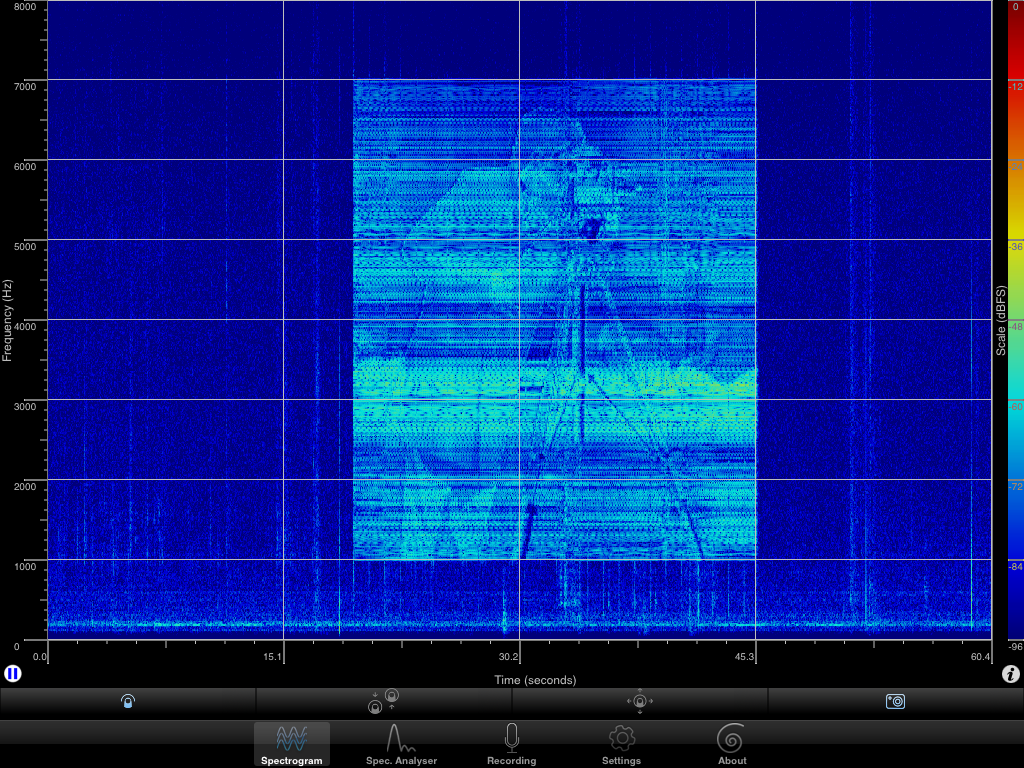
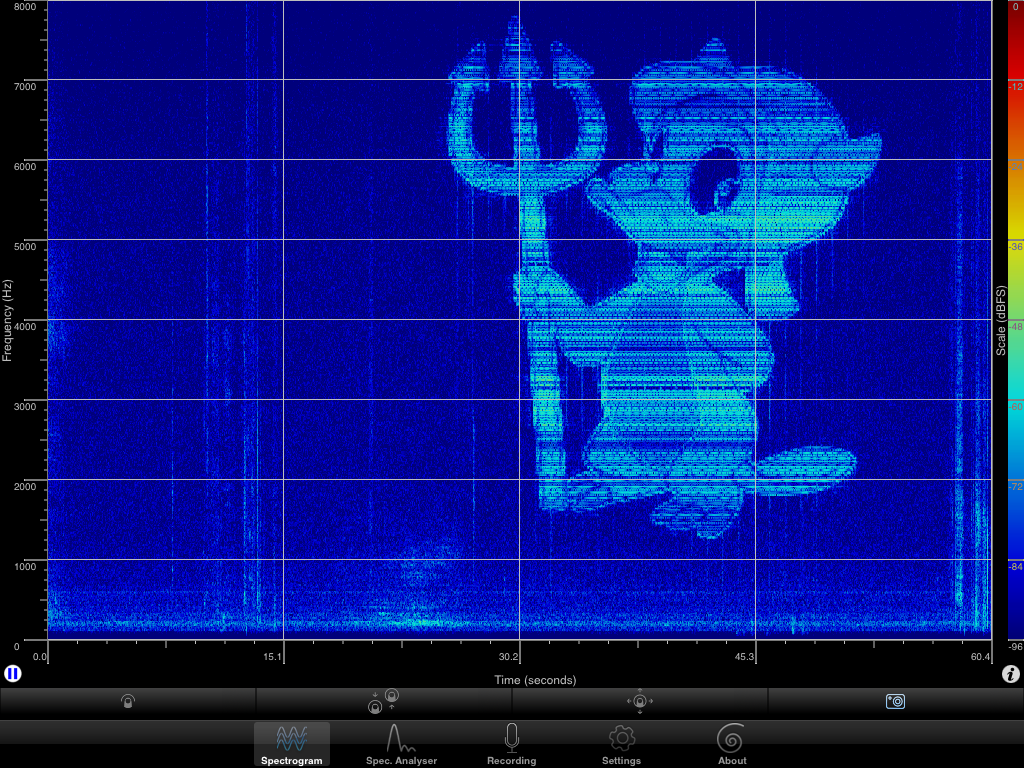
Lowered volume, fixes to prepare-image and new screens

diff --git a/readme.md b/readme.md
@@ -23,9 +23,9 @@ When printing images lines option is ignored.
 [PortAudio V19](http://www.portaudio.com/)
 
 ##Screens
-![address](screens/2.png)
-![monalisa](screens/3.png)
-![cameraman](screens/1.png)
+![hexley](screens/1.png)
+![address](screens/3.png)
+![cameraman](screens/2.png)
 
 ##License
 [The MIT License (MIT)](http://opensource.org/licenses/mit-license.php)
